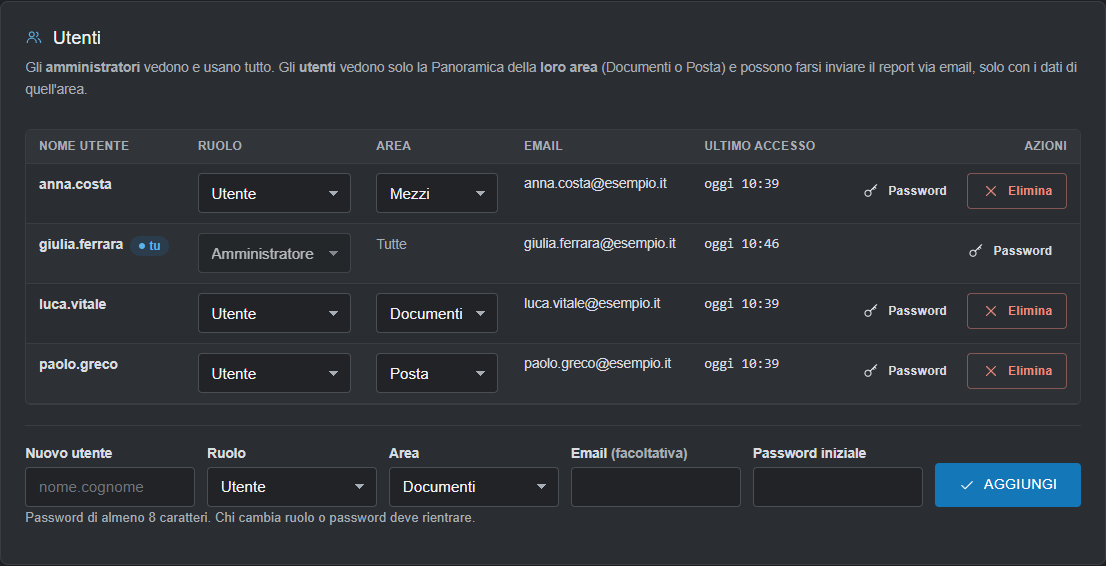
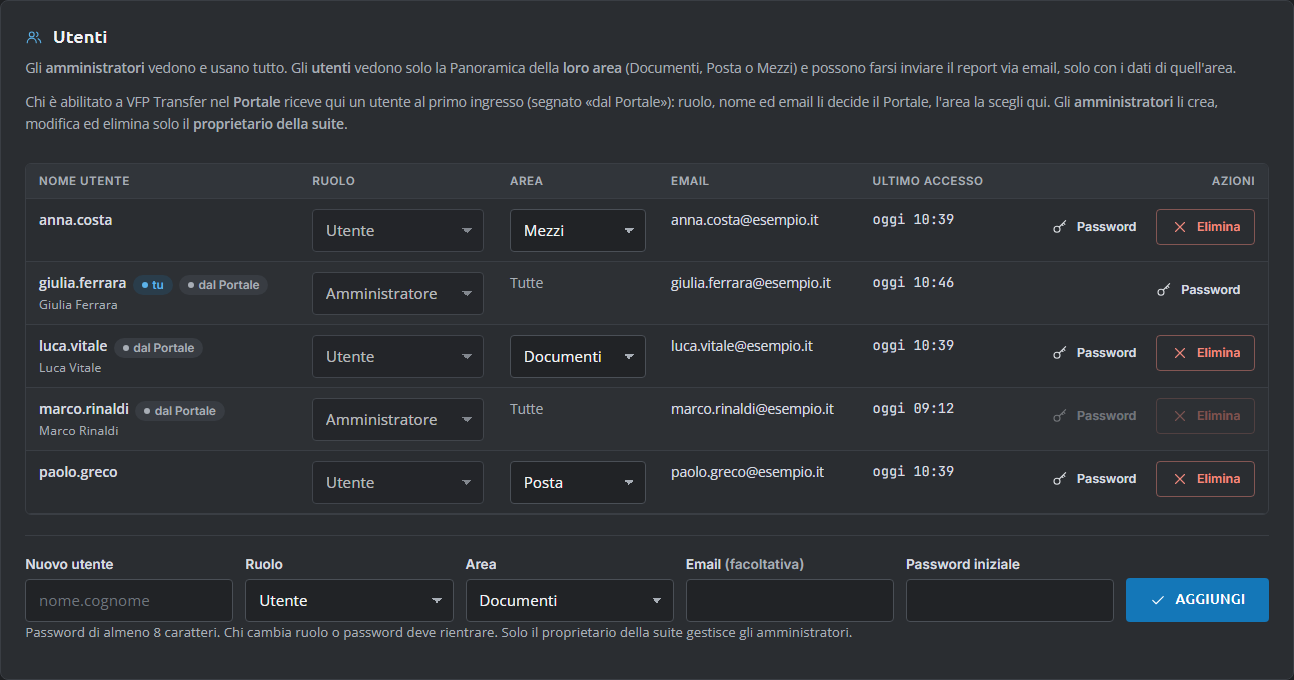
docs(vfp-transfer): guida e README su ingresso dal portale e amministratori
Capitoli 01 (accesso) e 06 (impostazioni) della guida e README: spunta VFP Transfer nel
portale, account creato all'ingresso, controllo del profilo a ogni login, admin solo dal
proprietario. Immagine 36-imp-utenti rifatta con dati inventati.

diff --git a/vfp-transfer-DMS/vfp-transfer/README.md b/vfp-transfer-DMS/vfp-transfer/README.md
@@ -59,8 +59,8 @@ le Impostazioni lo segnalano in rosso.
 L'interfaccia chiede **nome utente e password**. Vale anche la **password del Portale Suite Cosedil**
 (una password per tutti i programmi): scrivendo il nome utente di qui, oppure lo username o l'email del
 portale, con la password del portale si entra nell'utente di VFP Transfer che ha **lo stesso nome dello
-username del portale o la stessa email**. Gli utenti restano quelli creati qui (con il codice inviato
-all'amministratore). La password di VFP Transfer resta valida; col portale spento vale solo quella. Codice
+username del portale o la stessa email**. Gli utenti sono quelli di qui (creati con il codice inviato
+all'amministratore, o dal portale: vedi sotto). La password di VFP Transfer resta valida; col portale spento vale solo quella. Codice
 in `auth._utente_dal_portale`.
 
 **Un solo login (09/11/2026).** Aprendo la pagina (`/`, o `/login.html` dopo una sessione scaduta) con la
@@ -71,6 +71,38 @@ admin in utenti.json; non basta l'admin da regola IP) è amministratore anche qu
 promosso, e se manca viene creato admin con una password casuale (unica eccezione alla creazione col codice
 all'amministratore, decisa dall'utente: "le mie credenziali valgono come admin ovunque"). Creazione e promozione
 finiscono nel registro attività (Sicurezza). Dopo **Esci** (`/login.html?uscito=1`) non si rientra da soli.
+
+**Profilo del portale valido anche qui (11/11/2026, decisione dell'utente "2b 3b 4a" e "gli admin li creo e li
+cancello solo io").** VFP Transfer è un programma con spunta nel portale (`vfp-transfer`, riservato: spento di
+serie). A ogni login e a ogni ingresso dal portale `auth.profilo_portale` chiede il profilo con
+`POST <portale>/api/suite/profilo` (token della suite, corpo `{login, app: "vfp-transfer"}`; contratto in
+`shared/suite/CONTRATTI.md`):
+
+- **ingresso dal portale** (`auth.ingresso_dal_portale`): chi è abilitato e non ha un utente qui lo riceve
+  (ruolo utente, area predefinita, `origine: "portale"`, `portale: <username>`); per gli utenti collegati
+  (campo `portale`, poi stesso nome, poi stessa email) l'amministratore lo decide il portale, **dato e tolto**,
+  e nome ed email si aggiornano (`auth._allinea_account`). Non abilitato o disattivato: niente ingresso;
+- **login con la password di qui** (scelta 3b: restano valide): se il portale conosce l'utente, disattivato o non
+  abilitato → rifiutato con il motivo (non conta come password sbagliata); l'amministratore si può solo
+  **togliere**, mai dare (la password di qui non prova chi è la persona nel portale); un utente collegato a un
+  account del portale eliminato resta fuori. Portale spento → si entra, con "Accesso senza verifica del Portale"
+  nel registro e in `logs/vfp_servizio.log`. Le sessioni già aperte non si ricontrollano (scelta 2b);
+- quando il portale **promuove** un utente nato qui, la sua password di qui viene sostituita con una casuale (chi
+  l'aveva creato la conosceva); si entra dal portale o con la password del portale;
+- **amministratori solo dal proprietario della suite** (`auth.controlla_modifica_utente`, chiamata da
+  `vfp_gui.api_users_save` prima del codice via email): creare un amministratore, dare o togliere il ruolo,
+  eliminare un amministratore o cambiargli password/email/area richiede che chi agisce sia il proprietario
+  (`"proprietario": true` nel portale, chiesto in quel momento) con una sessione aperta dal portale o con la
+  password del portale (campo `portale` della sessione). Portale spento → rifiutato. Il ruolo degli utenti
+  collegati non si cambia qui. La pagina Utenti mostra «dal Portale» e spegne i comandi non permessi
+  (`/api/users` → `proprietario`, `dal_portale`). I comandi da terminale (`python auth.py aggiungi … --ruolo
+  admin`) restano legati al codice inviato all'email dell'amministratore.
+- Portale di una versione senza `/api/suite/profilo` (404): ingresso come prima dell'11/11 (utente nuovo solo
+  all'amministratore del portale), login con la password di qui permesso con traccia.
+
+Test: `tests/test_ingresso_portale.py`, `tests/test_auth_portale.py`, `tests/test_amministratori.py` (portale
+finto; `tests/__init__.py` punta `COSEDIL_PORTAL` a una porta dove non risponde nessuno, così i test non toccano
+mai il portale vero).
 
 Due ruoli:
 

diff --git a/vfp-transfer-DMS/docs/guida/01-accesso-e-schermata.md b/vfp-transfer-DMS/docs/guida/01-accesso-e-schermata.md
@@ -14,14 +14,17 @@ VFP Transfer gira sul PC (o server) dove è installato ed è sempre acceso. Lo s
 
 ## Accedere
 
-Se sul browser sei già entrato nel **Portale Suite Cosedil**, VFP Transfer ti fa entrare da solo, senza
-password: basta aprirlo. Vale per chi ha un utente di VFP Transfer collegato al Portale (stesso nome utente o
-stessa email). Un **amministratore del Portale** entra sempre come **amministratore** anche qui, con tutte le
-aree: se non ha ancora un utente di VFP Transfer viene creato da solo. Dopo **Esci** il programma non ti fa
-rientrare da solo: resta la pagina di accesso, così puoi entrare con un altro utente.
+Se sul browser sei già entrato nel **Portale Suite Cosedil** e nel Portale hai la spunta di **VFP Transfer**,
+il programma ti fa entrare da solo, senza password: basta aprirlo. La prima volta ti crea un utente di VFP
+Transfer, segnato «dal Portale» (l'amministratore di qui poi ti assegna l'area). Il tuo profilo del Portale vale
+anche qui: se nel Portale sei **amministratore** lo sei anche qui, con tutte le aree, e se smetti di esserlo
+torni utente; nome ed email arrivano dal Portale. Dopo **Esci** il programma non ti fa rientrare da solo: resta
+la pagina di accesso, così puoi entrare con un altro utente.
 
 Altrimenti scrivi **Nome utente** e **Password** (te li dà l'amministratore; vale anche la password del Portale)
-e clicca **ACCEDI**.
+e clicca **ACCEDI**. Anche così il programma chiede al Portale se puoi entrare: se il tuo account del Portale è
+**disattivato** o non hai la spunta di VFP Transfer, l'accesso viene rifiutato con il motivo. Se il Portale è
+spento si entra lo stesso con la password di qui.
 
 ![Pagina di accesso](img/01-accesso.png)
 

diff --git a/vfp-transfer-DMS/docs/guida/06-impostazioni.md b/vfp-transfer-DMS/docs/guida/06-impostazioni.md
@@ -101,6 +101,16 @@ di file e cartelle.
 per impostarne una nuova, **Elimina**. In fondo si aggiunge un **Nuovo utente** (nome.cognome, ruolo, area, email,
 password iniziale di almeno 8 caratteri) con **AGGIUNGI**. Chi cambia ruolo o password deve rientrare.
 
+Gli utenti segnati **«dal Portale»** (sotto c'è il nome e cognome del Portale) sono collegati al loro account del
+Portale Suite Cosedil: il **ruolo** lo decide il Portale (la tendina è spenta), nome ed email si aggiornano da
+soli a ogni ingresso; l'**area** invece la scegli qui.
+
+Gli **amministratori** li crea, modifica ed elimina **solo il proprietario della suite**: creare un
+amministratore, dare o togliere il ruolo, eliminare un amministratore o cambiargli la password è riservato a lui,
+riconosciuto dal Portale (deve essere entrato dal Portale o con la password del Portale). Agli altri
+amministratori quei comandi restano spenti (nell'immagine *marco.rinaldi* è il proprietario e chi guarda è
+*giulia.ferrara*) e il suggerimento in fondo lo spiega. Gli utenti normali li gestisce ogni amministratore.
+
 ![Utenti](img/36-imp-utenti.png)
 
 Nel modulo *Nuovo utente* la tendina **Area** offre **Documenti**, **Posta** e **Mezzi** (per l'amministratore
